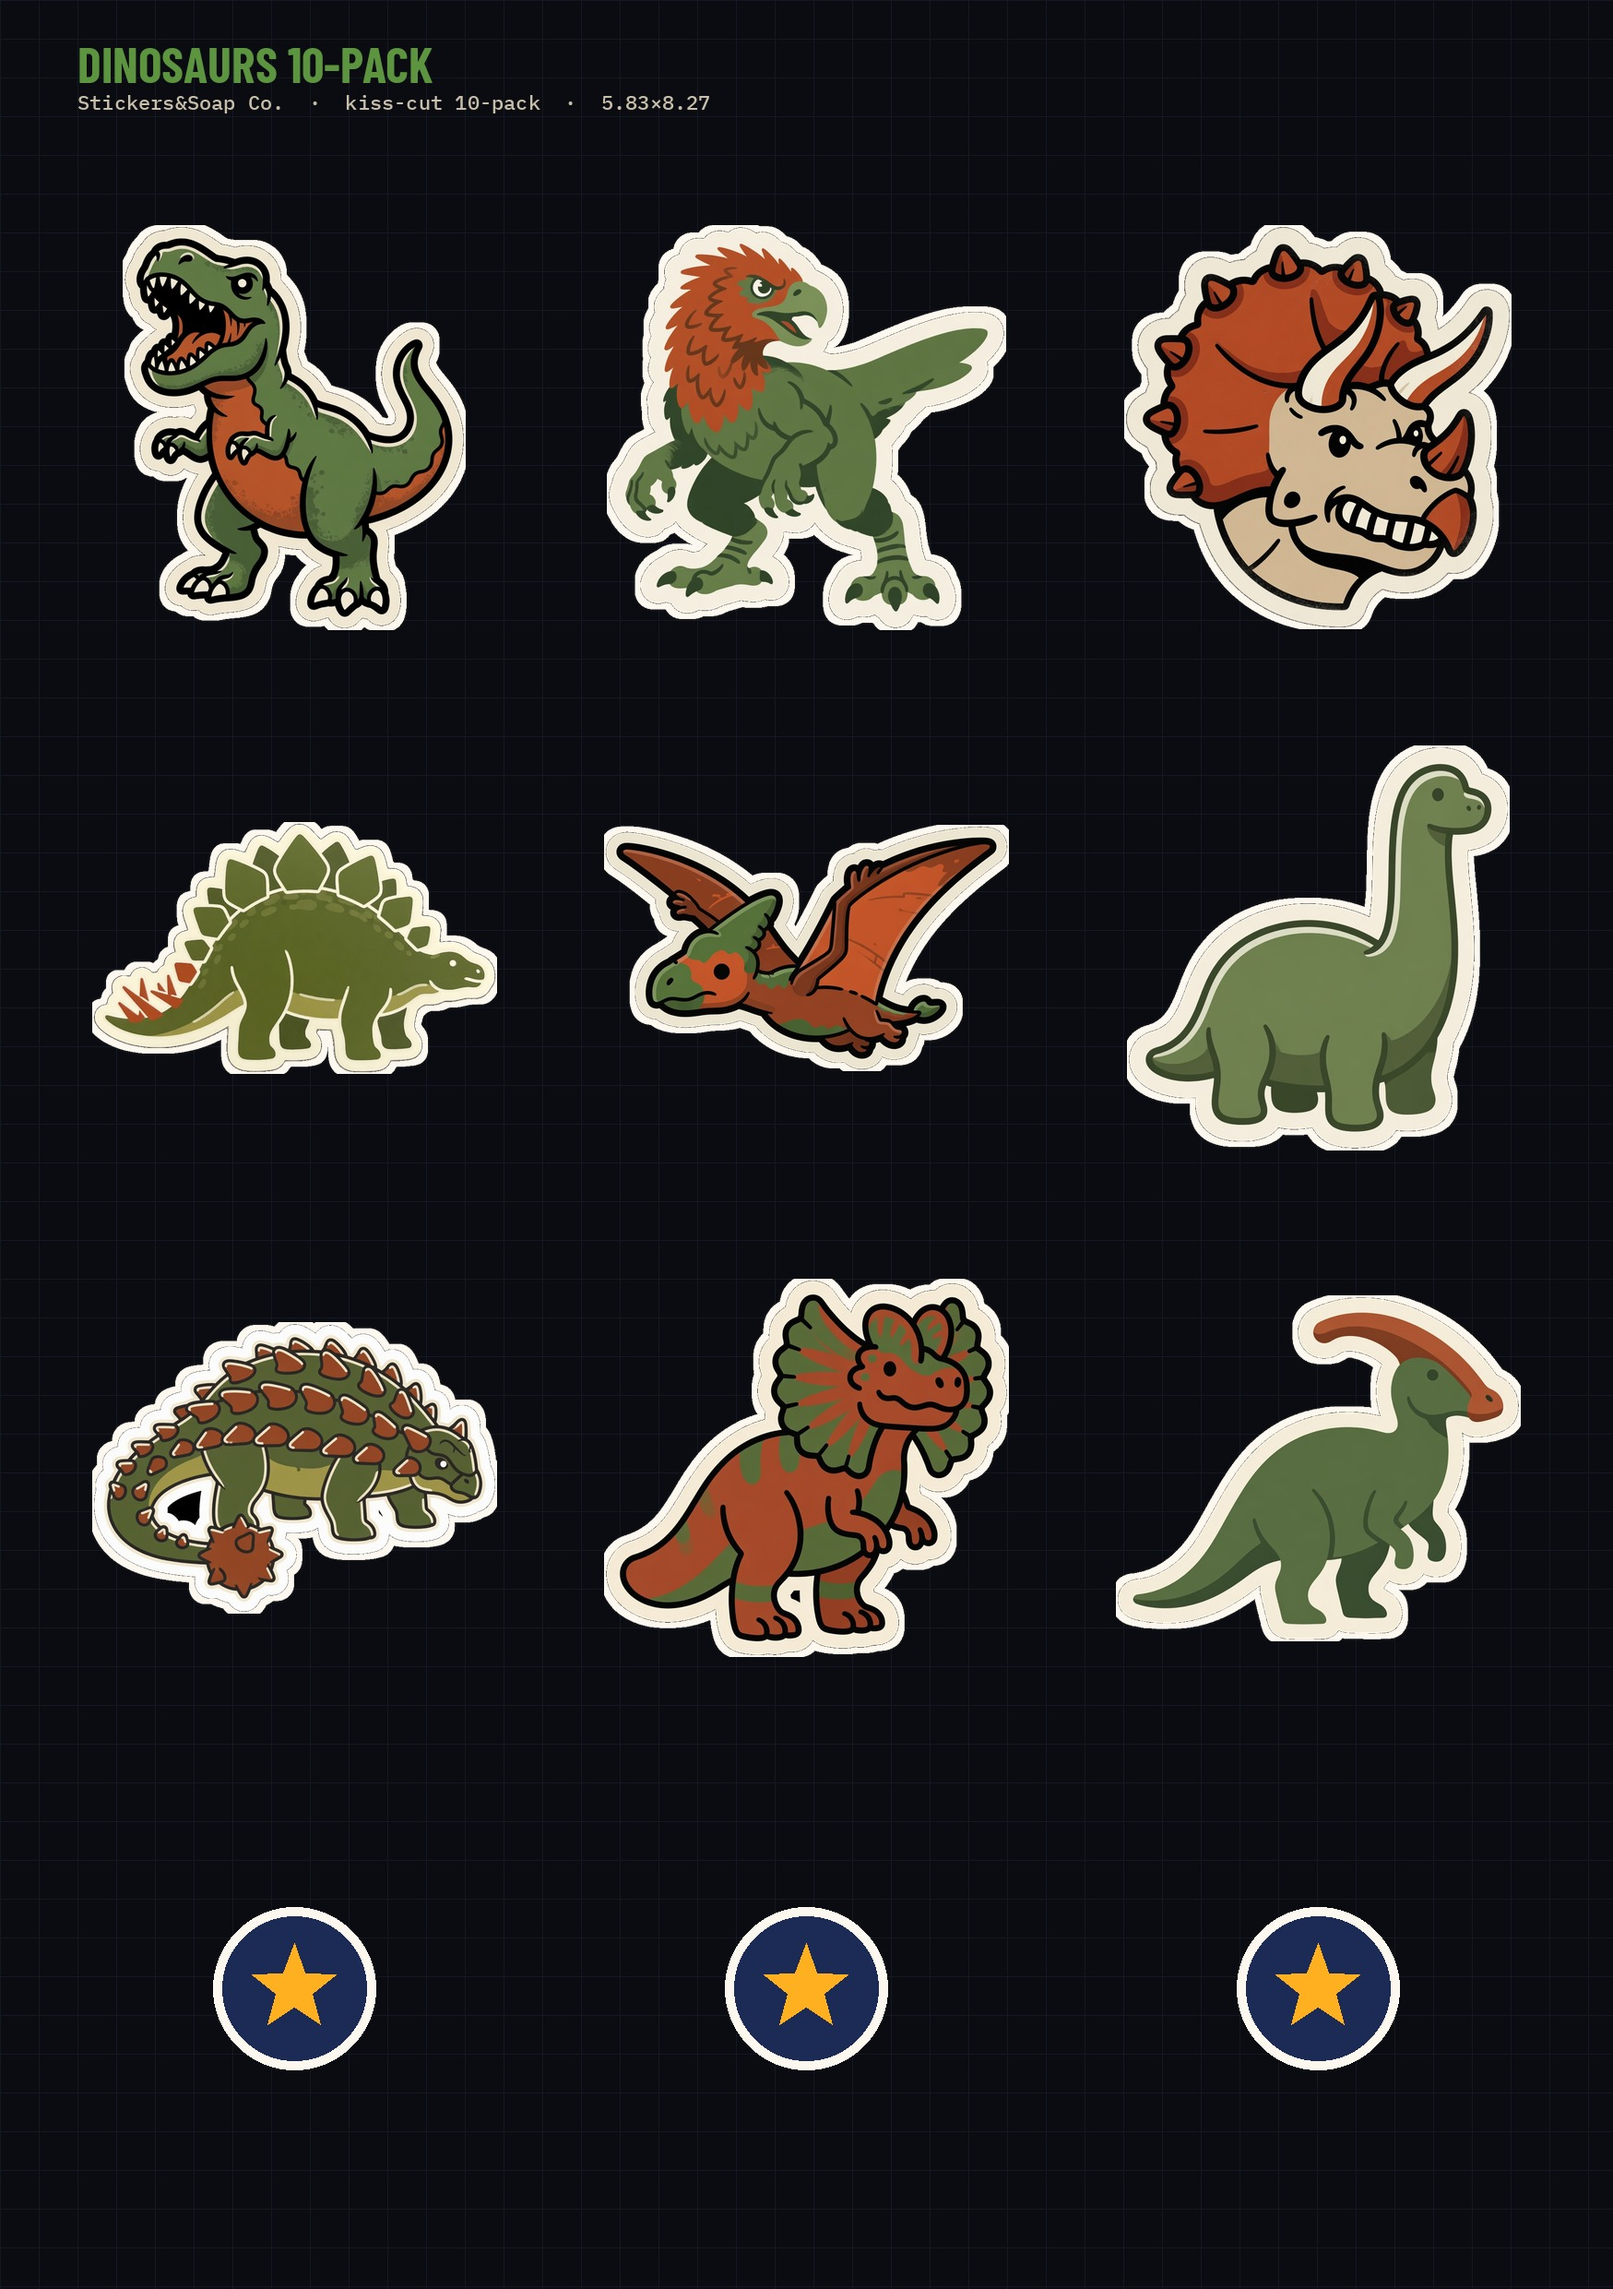
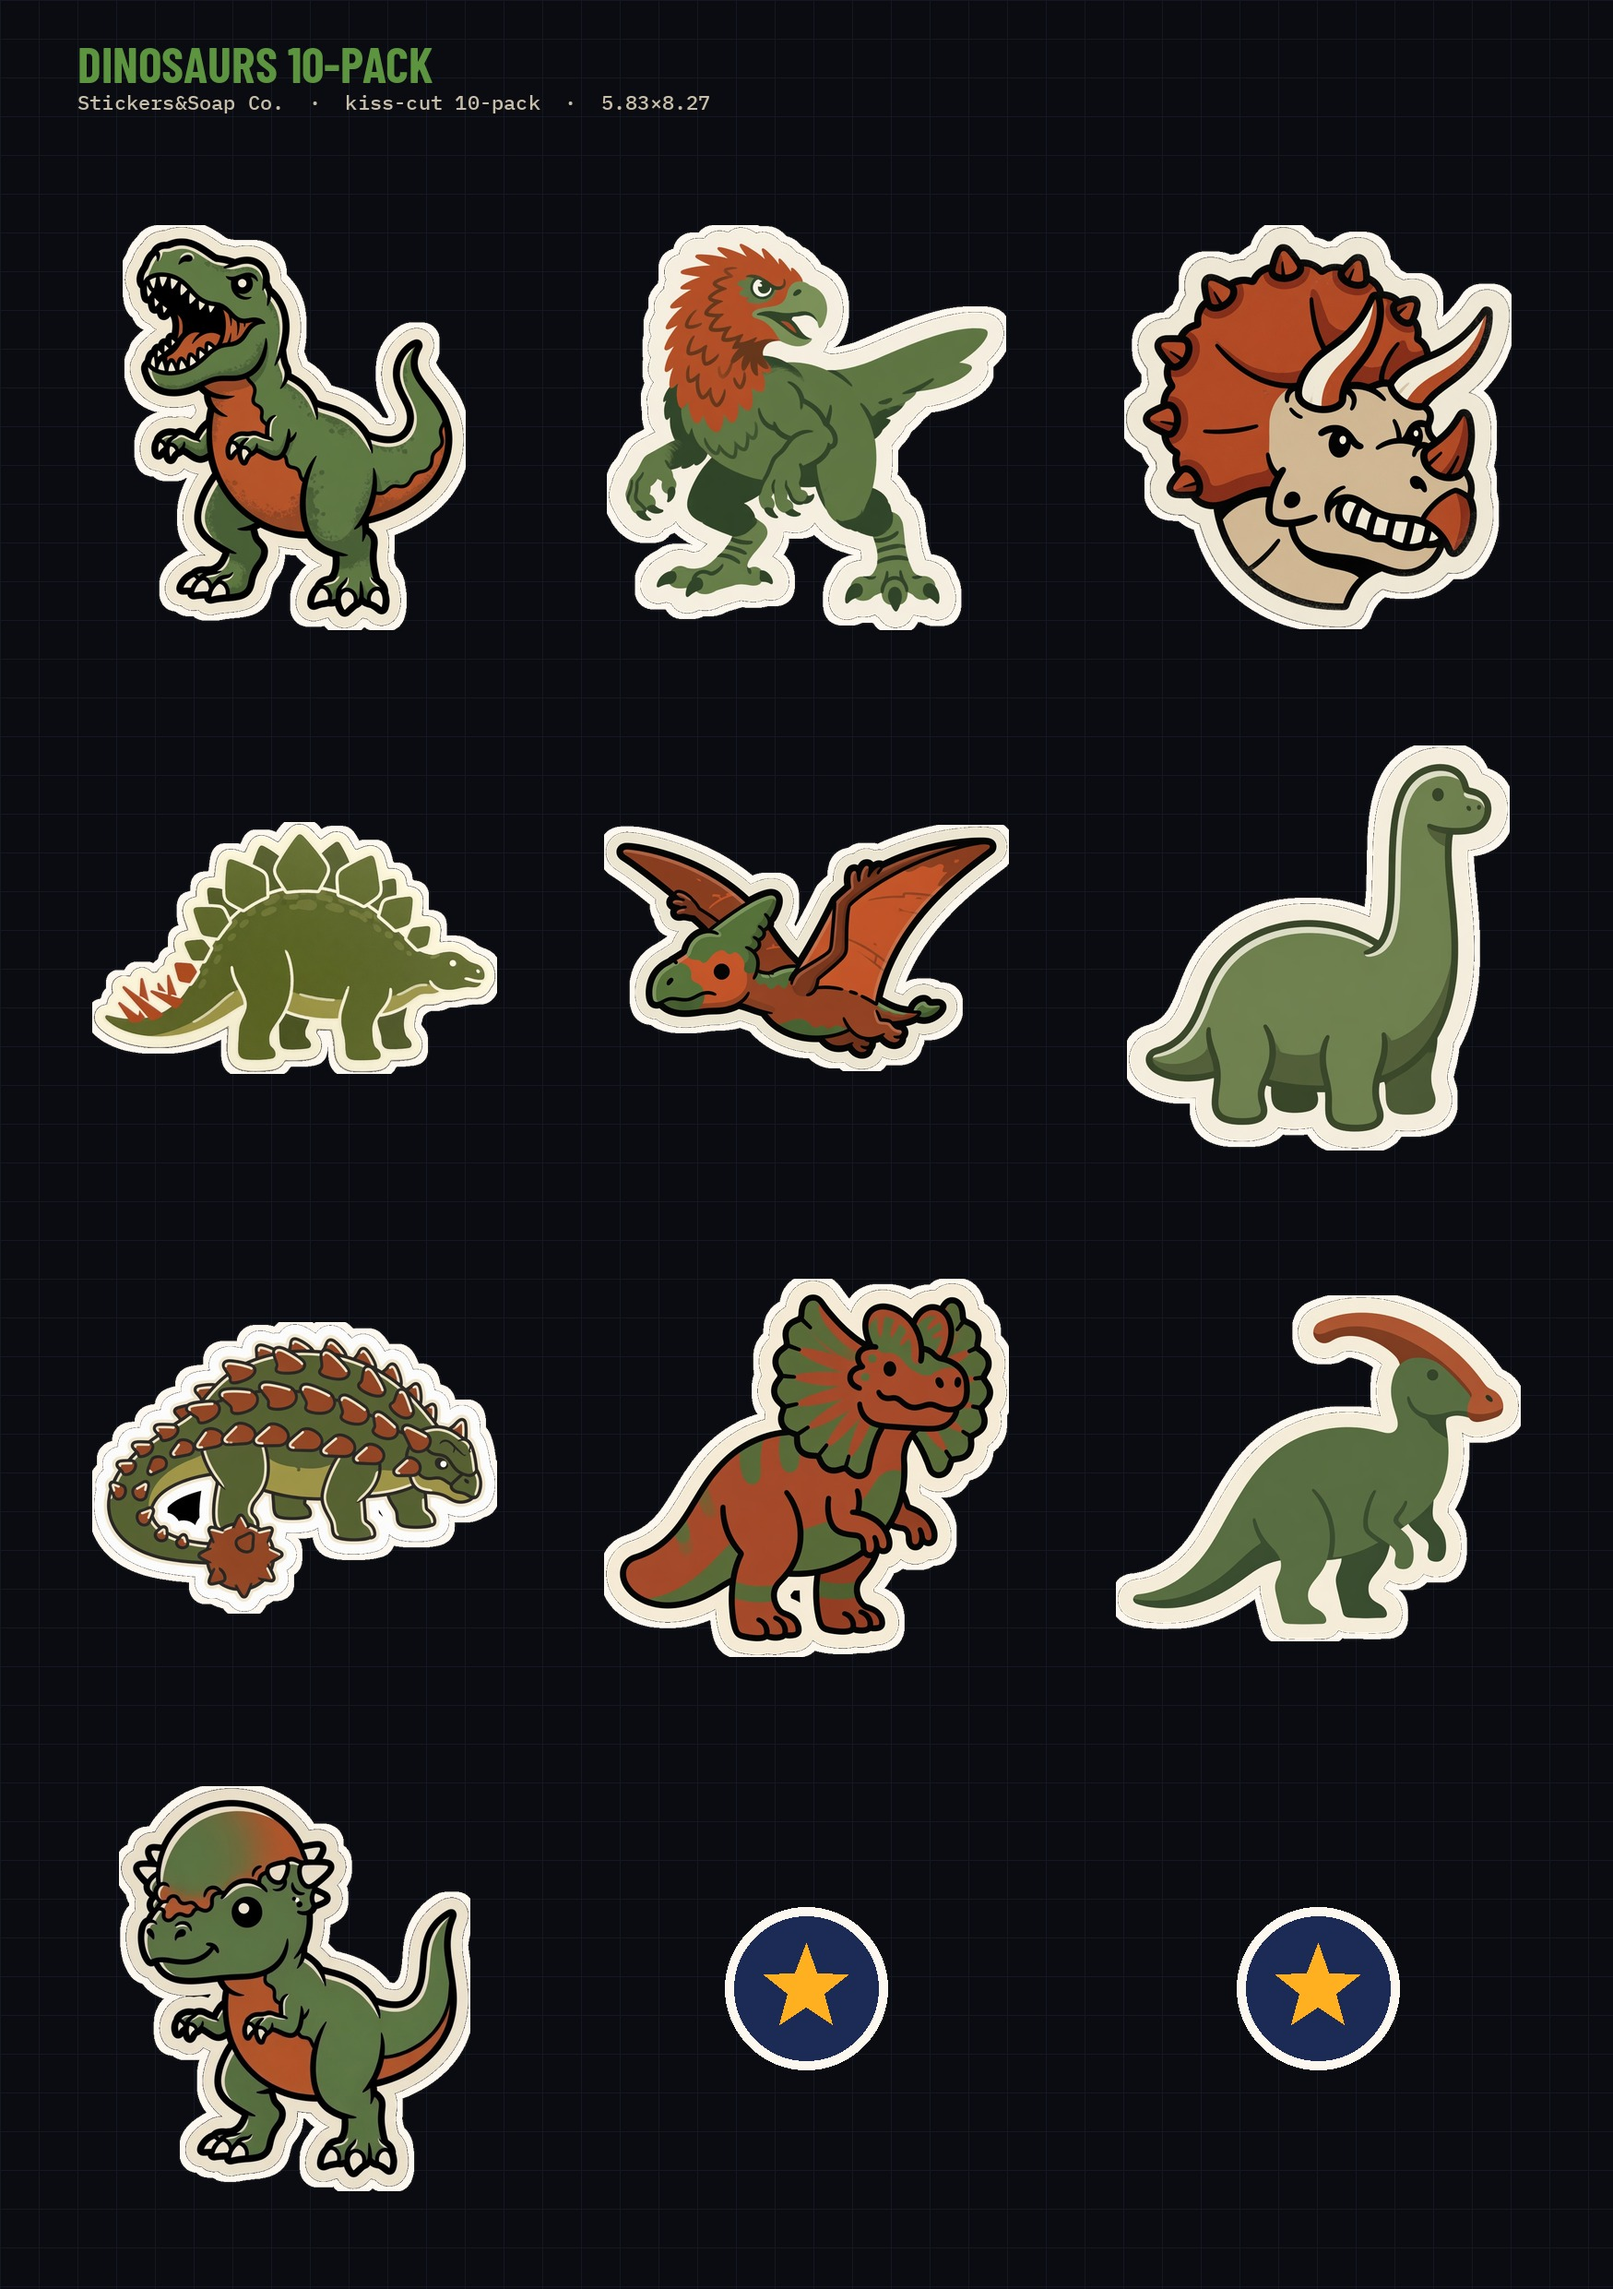
publish(merch-review): 2026-09-14T0023Z

Changed region(s): [[0.0617, 0.7759, 0.3087, 0.9621]]

diff --git a/merch-review/index.html b/merch-review/index.html
@@ -4,9 +4,9 @@
 <meta charset="utf-8"/>
 <meta name="viewport" content="width=device-width, initial-scale=1, viewport-fit=cover"/>
 <meta name="robots" content="noindex"/>
-<meta name="merch-review-build" content="rev7-fix-sticker-shop-2026-09-13"/>
-<title>Rev 7 FIX — Stickers&Soap Co. sticker shop</title>
-<meta name="description" content="Stickers&Soap Co. Rev7 FIX: YES-only stickers, quotes killed, BYO 10-pack $20. Comment Yes/Later/No."/>
+<meta name="merch-review-build" content="rev7-live-sticker-shop-2026-09-13"/>
+<title>Rev 7 LIVE — Stickers&Soap Co. sticker shop</title>
+<meta name="description" content="Stickers&Soap Co. Rev7 LIVE: YES stickers, dino 10-pack with pachy, BYO 10-pack $20."/>
 <link rel="canonical" href="https://cprahill.github.io/command/merch-review/"/>
 <link href="https://fonts.googleapis.com/css2?family=Anton&family=Barlow+Condensed:wght@600;700&family=IBM+Plex+Mono:wght@400;500&display=swap" rel="stylesheet"/>
 <style>
@@ -217,10 +217,10 @@ body.og-only .card:not(.og) { display: none; }
 </head>
 <body>
 <header>
-  <div class="brand">COMMAND <i>//</i> MERCH REVIEW · REV7 FIX · STICKERS&amp;SOAP CO.</div>
-  <p style="color:#ffb020;font:700 12px/1.3 IBM Plex Mono,monospace;letter-spacing:.08em">BUILD rev7-fix · YES-only · quotes/spino killed · singles $5/$6 · genre 10-packs $14 · BYO 10-pack $20 · S&amp;S OG first</p>
-  <h1>Stickers&amp;Soap Co. FIX pass. Comment Yes / Later / No.</h1>
-  <p class="lede">Art fixes: avocado colors, donut frosting, snake one tail, daruma both eyes, kraken beak. Quotes + pack-quote + spino gone. New: Build Your Own 10-pack $20 (pick any 10 YES singles). Gold tag = S&amp;S OG. Do not upload live until you YES this board.</p>
+  <div class="brand">COMMAND <i>//</i> MERCH REVIEW · REV7 LIVE · STICKERS&amp;SOAP CO.</div>
+  <p style="color:#ffb020;font:700 12px/1.3 IBM Plex Mono,monospace;letter-spacing:.08em">BUILD rev7-live · YES-only · dino 10 with pachy · singles $5/$6 · genre 10-packs $14 · BYO 10-pack $20 · S&amp;S OG first</p>
+  <h1>Stickers&amp;Soap Co. LIVE pack. Dino 10 locked.</h1>
+  <p class="lede">Pachycephalosaurus added. Dino 10-pack is trex, raptor, triceratops, stego, ptera, brachio, ankylo, dilo, para, pachy. Quotes + pack-quote + spino stay killed. BYO 10-pack $20. Gold tag = S&amp;S OG.</p>
   <div class="tally">
     <span>approve <b id="n-yes">0</b></span>
     <span>later <b id="n-later">0</b></span>
@@ -319,6 +319,7 @@ const SKUS = [
   {id:'ankylo-dino', theme:'dino', door:'A Fourthwall · B Shopify', name:'Ankylo', type:'kiss-cut $5 / die-cut $6', price:5, why:'Die-cut ready. Cream contour. Original.', og:false},
   {id:'dilo-dino', theme:'dino', door:'A Fourthwall · B Shopify', name:'Dilo', type:'kiss-cut $5 / die-cut $6', price:5, why:'Die-cut ready. Cream contour. Original.', og:false},
   {id:'para-dino', theme:'dino', door:'A Fourthwall · B Shopify', name:'Para', type:'kiss-cut $5 / die-cut $6', price:5, why:'Die-cut ready. Cream contour. Original.', og:false},
+  {id:'pachy-dino', theme:'dino', door:'A Fourthwall · B Shopify', name:'Pachy', type:'kiss-cut $5 / die-cut $6', price:5, why:'Die-cut ready. Cream contour. Original.', og:false},
   {id:'lightning-pin', theme:'pin', door:'A Fourthwall · B Shopify', name:'Lightning', type:'kiss-cut $5 / die-cut $6', price:5, why:'S&S OG pick. Year-round foundation.', og:true},
   {id:'dagger-pin', theme:'pin', door:'A Fourthwall · B Shopify', name:'Dagger', type:'kiss-cut $5 / die-cut $6', price:5, why:'Die-cut ready. Cream contour. Original.', og:false},
   {id:'eye-pin', theme:'pin', door:'A Fourthwall · B Shopify', name:'All-Seeing', type:'kiss-cut $5 / die-cut $6', price:5, why:'Die-cut ready. Cream contour. Original.', og:false},
@@ -366,7 +367,7 @@ const SKUS = [
 ;
 const THEMES = [
   {id:"snack", title:"Snack Crew", door:"A Fourthwall", lede:"Wildcard. Food kawaii. Highest want-and-buy. Wave 1. Avocado colors + donut frosting fixed."},
-  {id:"dino", title:"Dinosaurs", door:"A Fourthwall", lede:"Chunky enamel-pin dinos. Spino killed. Kid + adult impulse."},
+  {id:"dino", title:"Dinosaurs", door:"A Fourthwall", lede:"Chunky enamel-pin dinos. Exactly 10 YES including Pachy dome-head. Spino stays killed."},
   {id:"eighty", title:"80s", door:"A Fourthwall", lede:"Retro objects. Boombox, cassette, walkman."},
   {id:"nineties", title:"90s", door:"A Fourthwall", lede:"Floppy, discman, original pet-egg. No licensed toys."},
   {id:"flag", title:"Flags / state", door:"A Fourthwall", lede:"Flags YES. Parties / candidates NO."},
@@ -402,7 +403,7 @@ function cardHTML(s) {
   const og = s.og ? `<span class="tag">S&S OG</span>` : "";
   const cls = s.og ? "card og" : "card";
   return `<article class="${cls}" data-id="${s.id}">
-    <img class="hero" src="./img/${s.id}.jpg?v=rev7fix" alt="${s.name} ${s.type}" width="800" height="800"/>
+    <img class="hero" src="./img/${s.id}.jpg?v=rev7live" alt="${s.name} ${s.type}" width="800" height="800"/>
     <div class="pad">
       ${og}
       <span class="door">${s.door} · ${s.type} $${s.price}</span>
